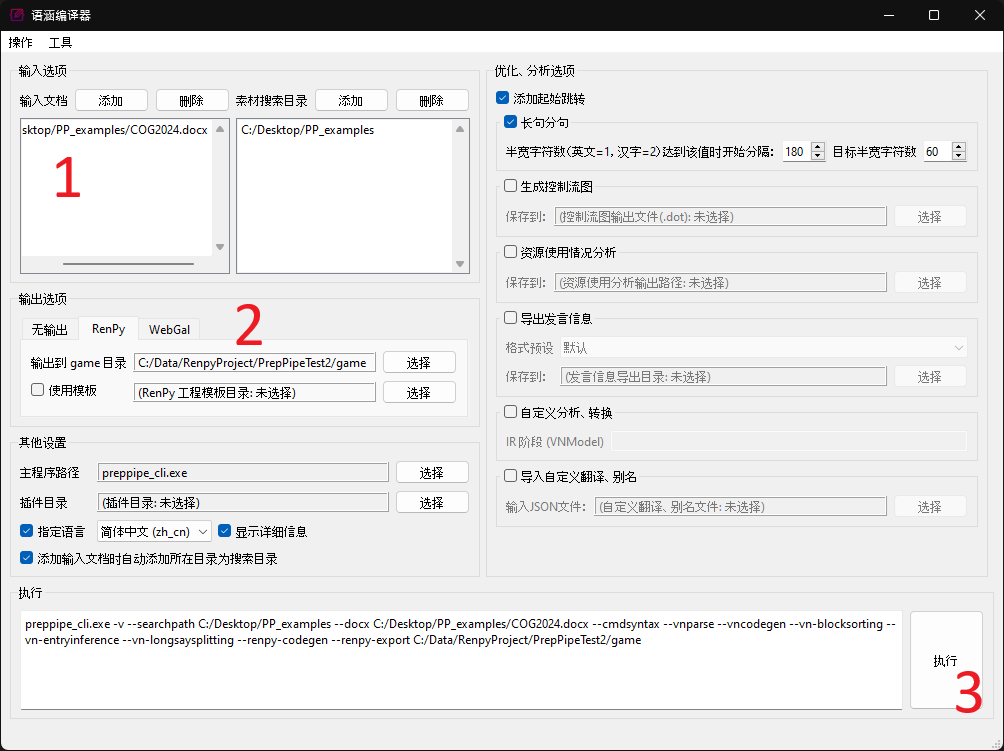
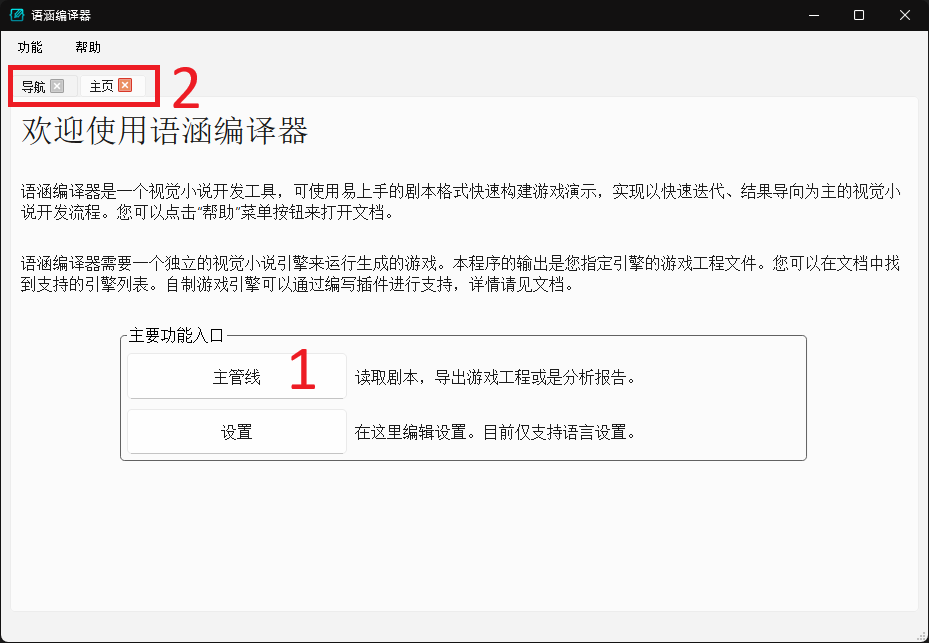
Update quickstart

diff --git a/docs/zh/quickstart/pipeline.md b/docs/zh/quickstart/pipeline.md
@@ -2,7 +2,19 @@
 
 想立即尝试使用语涵编译器的话，可按照本页所述流程进行试用。
 
-此样例假设您已经熟悉 [RenPy](https://doc.renpy.cn/zh-CN/quickstart.html) 或 [WebGal](https://docs.openwebgal.com/getting-started.html) 其中一款引擎的使用方法。请选择其中任一引擎完成本页的流程。推荐在尝试以下样例之前，先阅读完所选引擎的操作说明，且确保能够运行引擎附带的初始工程。
+!!! note "前置条件"
+
+    由于语涵编译器的导出结果是视觉小说引擎的游戏工程文件，为了使用导出的工程，您仍需掌握任一引擎在不使用本程序时的完整使用方式与流程。
+
+    此样例假设您已经熟悉 [RenPy](https://doc.renpy.cn/zh-CN/quickstart.html) 或 [WebGal](https://docs.openwebgal.com/getting-started.html) 其中一款引擎的使用方法。请选择其中任一引擎完成本页的流程。推荐在尝试以下样例之前，先阅读完所选引擎的操作说明，且确保能够运行引擎附带的初始工程。
+
+!!! note "补足游戏工程"
+
+    由于语涵编译器目前只导出引擎脚本和素材文件，其余内容（如 UI，项目设置等）需要另外准备，所以如果您想尝试运行生成的工程文件，我们还需要用引擎创建一个新的游戏工程来补足剩余的文件。请确保这个新的（没有内容的）工程可以运行。使用语涵编译器时的一般流程为：
+
+      1. 使用所选视觉小说引擎创建一个空的游戏工程
+      2. 使用语涵编译器读取剧本并导出工程文件
+      3. 将语涵编译器生成的文件移至游戏工程目录。
 
 ## 样例文件与准备工作
 
@@ -16,42 +28,42 @@
       * 该样例展示内嵌图片、自备立绘的方法。
       * **请在使用前先解压该压缩包**，使用时只需指定其中的 COG2024.docx 文件。
 
-## （初版 UI）主界面与操作流程
+## 主界面
 
-编写该页时，我们使用的应该是以下初版 UI 的界面：
+程序启动后，主界面如图所示：
 
 ![主界面](screenshots/pipeline/1.png)
 
-我们目前只需要了解标记的三处 UI 组件：
+如图中框出的 "2" 所示，程序 UI 的主体由多个标签页组成。标签页可以在此拖拽和关闭。我们以标签页为单位去封装程序的各项功能。
 
-  1. 输入文档：剧本、下载后的样例等（以上样例使用 .docx 文档）需要添加到该列表中。您可以点击“添加”按钮或者将相应文件拖拽至其中。
-  2. 输出选项：这里有两个输入：
-      1. 请通过切换 "RenPy" 或 "WebGal" 标签页来选择输出的游戏工程所适配的引擎。
-      2. 输出到 game 目录：可以在这里指定语涵编译器应该将生成的文件存到哪里。
-  3. 执行按钮：所有设置准备完成后，点击执行按钮开始生成。
+主界面标签页提供了常用的功能入口，点击“主管线”（如图中的 "1" 所示）打开主管线标签页。
 
-操作流程即为按照上述三项指定输入、输出，并点击执行按钮。注意事项：
+## 主管线
 
-  * 对于所有的输出项（比如“输出到 game 目录”），如果在主界面里没有指定，程序会自动创建一个临时目录来存放输出。
-  * 由于语涵编译器目前只导出引擎脚本和素材文件，其余内容（如 UI，项目设置等）需要另外准备，所以如果您想尝试运行生成的工程文件，我们还需要用引擎创建一个新的游戏工程来补足剩余的文件。请确保这个新的（没有内容的）工程可以运行。
-      * 如果您只想看一下生成的文件、不想运行的话，可以将 game 目录设置留空。
+![主管线](screenshots/pipeline/2.png)
 
-## 执行界面
+主管线对接了语涵编译器中所有需要读取剧本文档的功能。左侧大半的区域是剧本文档列表，您可以通过图中的 "1" 区域的按钮去添加或管理剧本，也可以通过将剧本文件拖拽至列表区域来添加剧本。语涵编译器的分析功能（图中 "2" 区域）暂未完成, 未来我们会更新该区域。目前您可以点击图中 "3" 区域的按钮来将剧本导出为您选择的引擎的游戏工程。
 
-![执行界面](screenshots/pipeline/2.png)
+![主管线2](screenshots/pipeline/3.png)
 
-点击执行按钮后，您会看到以上执行界面。该界面有两个主要部分：
+为演示 UI 使用流程，这里我们将一个剧本文档添加进列表（如图中 "1" 所示）并点击 "Ren'Py 导出" 按钮（如图中 "2" 所示），这会打开下面的执行页面。
 
-  1. 日志区：语涵编译器本体的命令行和输出日志会在这里显示。当看到“执行完成”字样时表示语涵编译器已经完成所有操作。如果碰到严重错误（一般都是出 Bug）、程序崩溃，在这里也能显示报错信息。如碰到此类情况，请在联系开发者时将该区域的内容一并分享。
-  2. 输出区：每一项输出都在这里列出了输出的路径。您可以通过点击“打开”或“打开所在目录”来检查内容。
+## 执行页面
 
-如果您没有指定所有输出项，语涵编译器会创建临时目录来存放输出。临时目录将在执行窗口关闭后清空。弹出执行窗口后，您仍然可以回到主界面窗口继续设置、执行新的操作，可以有多个执行界面并存。
+![执行页面](screenshots/pipeline/4.png)
 
-当游戏工程导出完成后，您就可以运行生成的工程了。具体操作请参考相应引擎的文档（即未使用本程序时如何运行游戏工程）。
+主管线的每次运行都会开启一个新的执行页面，该页面记录了以下信息：
+
+  1. 日志区，提供程序执行状态与说明（如图中 "1" 所示）。语涵编译器本体的命令行和输出日志会在这里显示。当看到“执行完成”字样时表示语涵编译器已经完成所有操作。如果碰到严重错误（一般都是出 Bug）、程序崩溃，在这里也能显示报错信息。如碰到此类情况，请在联系开发者时将该区域的内容一并分享。
+  2. 输出区，列举了该次执行的所有输出文件（图中 "2" 所示）。语涵编译器会创建一个临时目录来存放所有输出文件，该临时目录将在执行页面标签关闭时或程序关闭时清空。您可以点击“打开”按钮（如图中 "3" 所示）使用系统默认的程序打开所指定的输出项（如果是目录的话也是用文件浏览器打开），或是点击“打开所在目录”来在文件浏览器中找到该输出项。
+
+当执行至如图所示的状态时，游戏工程文件已经生成完毕。您可以将导出的目录里的所有文件移至游戏工程目录并启动游戏。
+关于如何使用引擎创建和运行游戏工程，具体操作请参考相应引擎的文档（即未使用本程序时如何运行游戏工程）。
 
 ## 接下来做什么
 
 推荐接下来阅读“简介”中的有关页面。
+
   * 为什么需要语涵编译器：该页详细介绍了语涵编译器项目的主要目标。如果您在思考是否使用本程序，推荐阅读此页。
   * 用法简介：该页大致介绍了语涵编译器的推荐使用方法。如果您决定使用本程序，推荐在阅读更详细的文档前浏览该页。
   * 功能与模块概述：该页大致介绍了现有的所有功能和整体设计。如果您想要查阅更详细的文档，该页中的内容能帮助您定位所需的内容。
